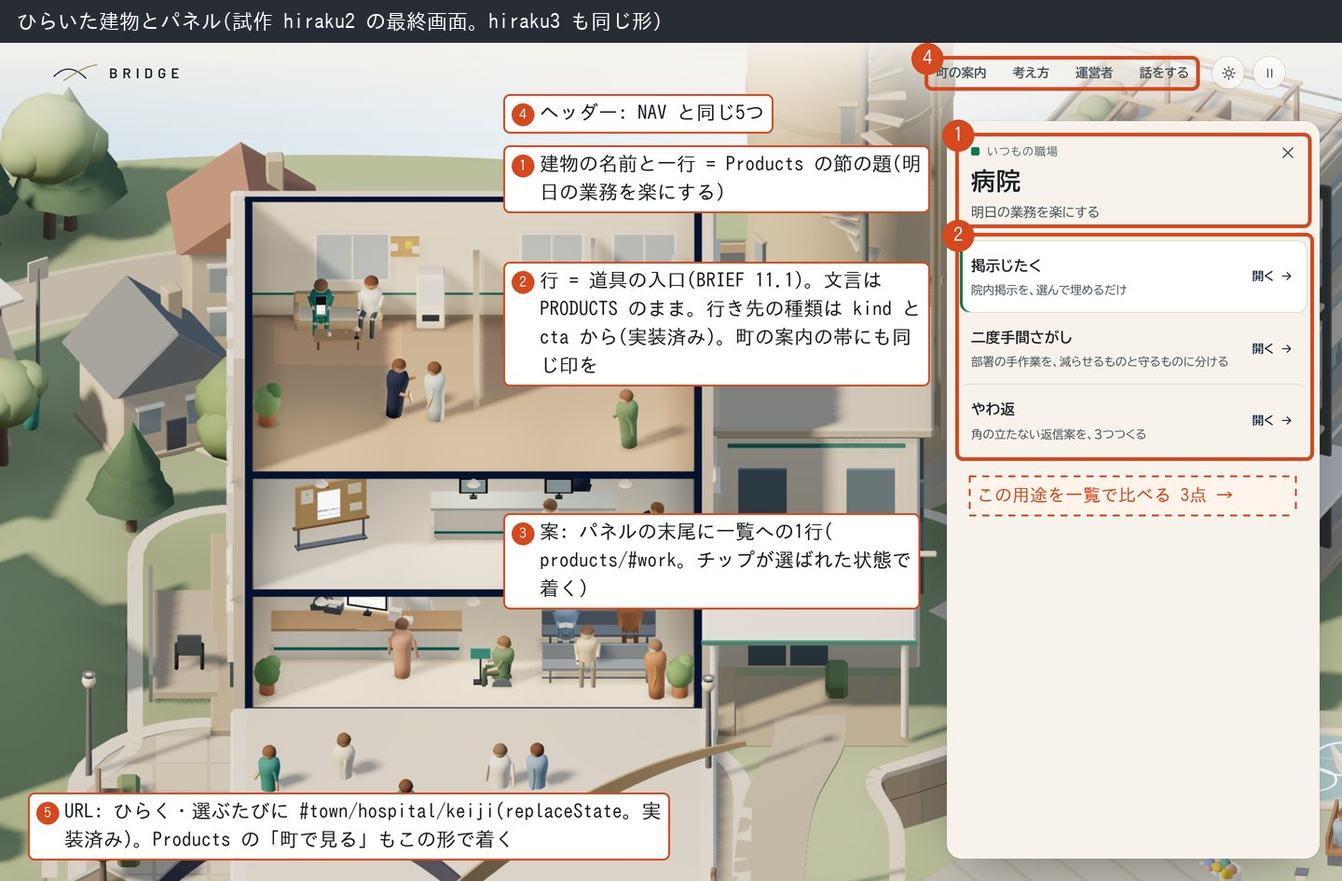
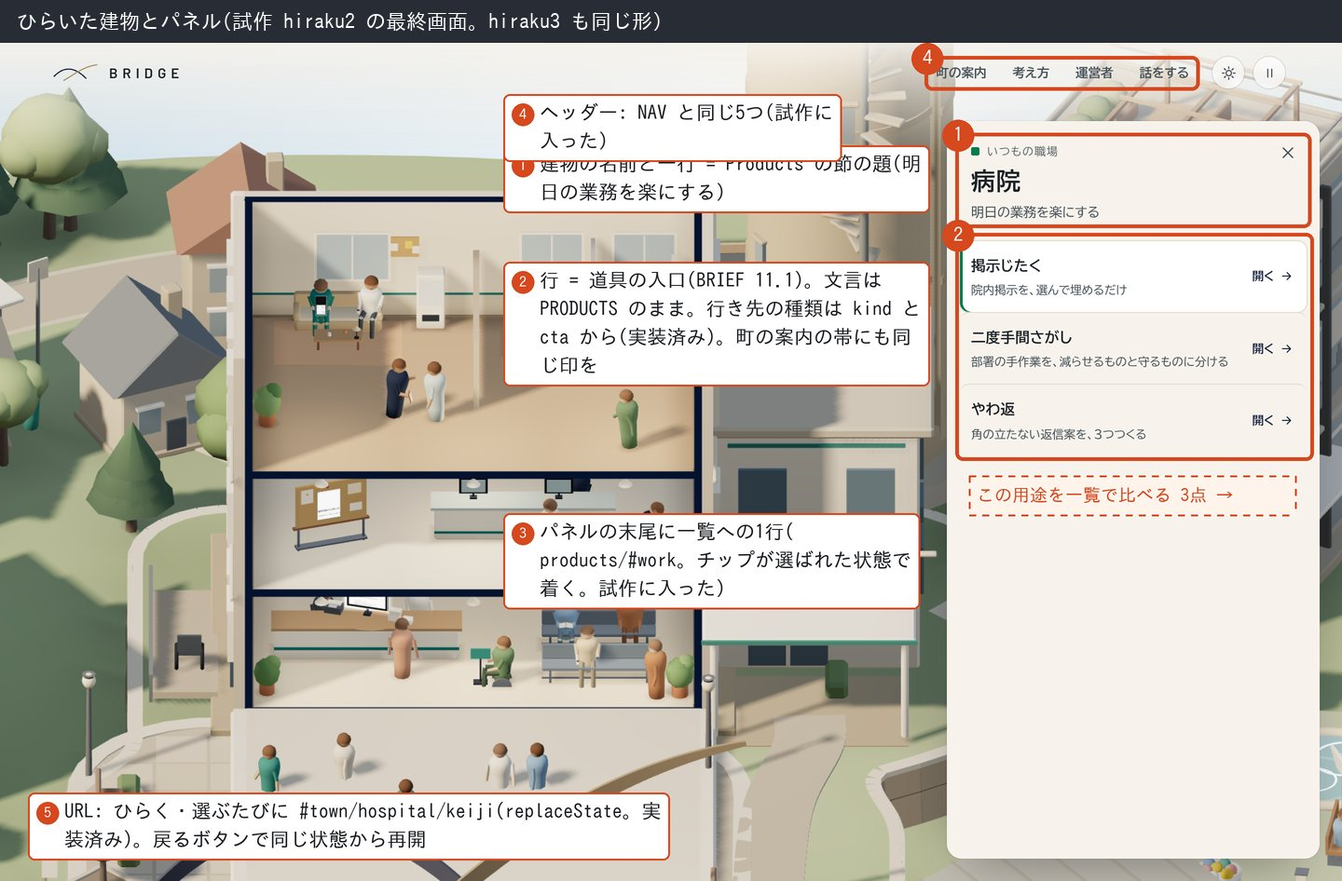
wip(top): 「ひらく町 v3」導線の提案を Designer の照合に合わせて改める(途中保存)
- 見送り: Products のヒーローと節の見出しの「町で見る」、下層フッターの「町を歩く」、一文が移るビュー遷移
- 写しの「1ページ1枚」は第22条 v1.4 でトップは適用外(改定は要らない)
- 社長の判断が要ることを9項目に整理

Claude-Session: https://claude.ai/code/session_016dwt5JPBcjN3XLYgLUEaNS

diff --git a/proto/top-ad/hiraku3/interiors.js b/proto/top-ad/hiraku3/interiors.js
@@ -46,6 +46,7 @@ const BASE = {
 };
 const mix = (a, b, t) => '#' + new THREE.Color(a).lerp(new THREE.Color(b), t).getHexString();
 const enc = x => x <= .0031308 ? 12.92 * x : 1.055 * Math.pow(x, 1 / 2.4) - .055;   // 光の量 → 画面の色の値(にじみの枠は値のまま足すため)
+const HI_NONE = new THREE.DataTexture(new Uint8Array([255, 255, 255, 255]), 1, 1); HI_NONE.needsUpdate = true;   // 元の大きさの写しを映していないとき
 function makePalette(p) {
   const outer = !!(p && p.wallIn);
   const P = Object.assign({}, BASE, outer ? {} : p || {});
@@ -410,8 +411,19 @@ export function buildInterior(kind, box, ctx = {}) {
   const scGeo = E.SC.geometry(true);
   // 写しは加工しない: 光・霧・トーンマッピング・頂点の色を受けず、ふだんも見つけたときも元の色のまま映す
   const scMat = new THREE.MeshBasicMaterial({ map: atlas, toneMapped: false, fog: false });
+  // 見つけている物(uHiSid 番)の画面だけは、アトラスの区画ではなく元の大きさの写し(uHiTex)を映す。同じ素材の中で選ぶので、描画の回数は増えない
+  const scU = { uHiTex: { value: HI_NONE }, uHiSid: { value: -1 } };
+  scMat.onBeforeCompile = sh => {
+    Object.assign(sh.uniforms, scU);
+    sh.vertexShader = sh.vertexShader.replace('#include <common>', '#include <common>\nattribute vec2 aUv0;\nattribute float aSid;\nvarying vec2 vUv0;\nvarying float vSid;')
+      .replace('#include <uv_vertex>', '#include <uv_vertex>\nvUv0 = aUv0;\nvSid = aSid;');
+    sh.fragmentShader = sh.fragmentShader.replace('#include <common>', '#include <common>\nuniform sampler2D uHiTex;\nuniform float uHiSid;\nvarying vec2 vUv0;\nvarying float vSid;')
+      .replace('#include <map_fragment>', '#ifdef USE_MAP\n\tdiffuseColor *= mix(texture2D(map, vMapUv), texture2D(uHiTex, vUv0), step(abs(vSid - uHiSid), .5));\n#endif');
+  };
+  scMat.customProgramCacheKey = () => 'hiraku-screen-hi';
   const scMesh = scGeo ? new THREE.Mesh(scGeo, scMat) : null; if (scMesh) group.add(scMesh);
-  // 画面の UV をアトラスの区画に合わせる(物の縦横比で、区画の中に収める)
+  // 画面の UV をアトラスの区画に合わせる(物の縦横比で、区画の中に収める)。元の板の上の位置(0〜1)と物の番号は、別に持つ(元の大きさの写しを映すとき用)
+  const U0 = scGeo ? new Float32Array(scGeo.attributes.position.count * 2) : null, SID = scGeo ? new Float32Array(scGeo.attributes.position.count) : null;
   E.stations.forEach((s, i) => {
     const col0 = i % cols, row = Math.floor(i / cols), a = s.sw / s.sh, m = slot * .03;
     const dw = a >= 1 ? slot - 2 * m : (slot - 2 * m) * a, dh = a >= 1 ? (slot - 2 * m) / a : slot - 2 * m;
@@ -420,10 +432,11 @@ export function buildInterior(kind, box, ctx = {}) {
     const U = scGeo.attributes.uv;
     for (let v = s.sc[0]; v < s.sc[1]; v++) {
       const uu = U.getX(v), vv = U.getY(v);
+      U0[v * 2] = uu; U0[v * 2 + 1] = vv; SID[v] = i;
       U.setXY(v, (x0 + uu * dw) / asz, 1 - (y0 + (1 - vv) * dh) / asz);
     }
   });
-  if (scGeo) scGeo.attributes.uv.needsUpdate = true;
+  if (scGeo) { scGeo.attributes.uv.needsUpdate = true; scGeo.setAttribute('aUv0', new THREE.BufferAttribute(U0, 2)); scGeo.setAttribute('aSid', new THREE.BufferAttribute(SID, 1)); }
   // 人
   const ppl = buildPeople(E, u);
   if (ppl) { group.add(ppl.body, ppl.head); if (ppl.limbs) group.add(ppl.limbs); }
@@ -527,7 +540,7 @@ export function buildInterior(kind, box, ctx = {}) {
     for (let j = 0; j < n; j++) { _w.subVectors(Q6[j], F.c); F.hx = Math.max(F.hx, Math.abs(_w.dot(F.x))); F.hy = Math.max(F.hy, Math.abs(_w.dot(F.y))); }
     const vw = (cam.right - cam.left) / cam.zoom, vh = (cam.top - cam.bottom) / cam.zoom;
     if (4 * F.hx * F.hy < .04 * vw * vh) return null;
-    F.G = G; return F;
+    F.G = G; F.s = s; return F;
   }
   // 手前(カメラの側へ .03 より前)にあって、画面とまわり(幅と高さの 1/4 ずつ広げた範囲)に重なって見えるか。pts は建物の中の座標、r は太さ
   F.covers = (pts, r) => {
@@ -537,11 +550,32 @@ export function buildInterior(kind, box, ctx = {}) {
     return al > .03 && x1 > -mx && x0 < mx && y1 > -my && y0 < my;
   };
 
+  /* ---- 見つけている間だけ、その物の画面を元の大きさの写し(products の thumbs 880px・shared/shots の大きい写し)に差し替える ----
+     読めてから差し替え(ちらつかない)、見つけ終われば戻してすぐ手放す(記憶域は見つけている間の1枚分だけ増える)。写しは縮めるだけ */
+  const hi = { id: null, tex: null };
+  function hiRes(s) {
+    const id = s && IMG[s.id] ? s.id : null;
+    if (id === hi.id) return;
+    hi.id = id; scU.uHiSid.value = -1; scU.uHiTex.value = HI_NONE;
+    if (hi.tex) { hi.tex.dispose(); hi.tex = null; }
+    if (!id) return;
+    const idx = s.index;
+    Promise.resolve().then(() => load(new URL(IMG[id][0], import.meta.url).href)).then(tex => {
+      const im = tex && tex.image; if (!im) return;
+      return Promise.resolve(im.decode ? im.decode().catch(() => {}) : null).then(() => {
+        if (disposed || hi.id !== id) return;
+        tex.colorSpace = THREE.SRGBColorSpace; tex.anisotropy = 4;
+        hi.tex = tex; scU.uHiTex.value = tex; scU.uHiSid.value = idx;
+      });
+    }).catch(() => { /* 読めないときは、アトラスの区画のまま */ });
+  }
+
   /* ---- 動き ---- */
   let lastMode = null;
   function update(dt, t, mode = 'day') {
     if (mode !== lastMode) { lastMode = mode; if (ppl) ppl.setMode(mode); }
     const f = focusView();
+    hiRes(f && f.s);
     if (ppl) ppl.update(t, f, dt);
     // 見つけている物の手前の小物も、同じように縮めて消す
     if (E.props.length) {
@@ -608,7 +642,7 @@ export function buildInterior(kind, box, ctx = {}) {
     dispose() {
       disposed = true;
       for (const m of [sMesh, scMesh, hlMesh]) if (m) m.geometry.dispose();
-      staticMat.dispose(); scMat.dispose(); hlMat.dispose(); atlas.dispose();
+      staticMat.dispose(); scMat.dispose(); hlMat.dispose(); atlas.dispose(); if (hi.tex) hi.tex.dispose();
       if (ppl) ppl.dispose();
       group.removeFromParent();
     }

diff --git a/proto/top-ad/hiraku3/ia/README.md b/proto/top-ad/hiraku3/ia/README.md
@@ -1,20 +1,19 @@
 # 町を入口にしたサイトの導線(情報設計の提案)
 
 2026-10-25・情報設計の担当(BRIEF §11.5)。`docs/ia.md` v3.3 を土台にした提案。本番のページ・`shared/`・`docs/` は変えていない。
-画面は 2026-10-25 にローカルで撮った本番と試作 `hiraku3`(撮影の時点。WebGL なし=止めた町)。試作は並行して直されているので、事実は読んだ時点のもの。ひらいた状態だけ `hiraku2` の最終画面。撮った全画面(PC 1440×900・スマホ 390×844、最初の画面とページ全体・末尾・フッター・メニュー)は現場の作業領域(scratchpad の `ad-hiraku3/ia/shots/`)に置き、リポジトリには入れていない。
+同日改(designer の照合を受けて): Products のヒーローと節の「町で見る」、下層フッターの「町を歩く」、一文が移るビュー遷移を見送った。写しの扱い(g)と、社長の判断が要ることを並べ直した。
+画面は 2026-10-25 にローカルで撮った本番と試作 `hiraku3`(撮影の時点。WebGL なし=止めた町)。ひらいた状態だけ `hiraku2` の最終画面。撮った全画面は現場の作業領域(scratchpad の `ad-hiraku3/ia/shots/`)に置き、リポジトリには入れていない。
 
-## 0. 実物から数えたこと
+## 0. 実物から数えたこと(提案の前に読んだ時点)
 
-- 道具は29点(`products/index.html` の PRODUCTS)。用途6つは 業務3・経営管理9・経営を学ぶ3・キャリア7・学習3・試す作品4。町の6棟(`data.js` の BUILDINGS)と1対1で、数も同じ。ほかにアトリエ3(about・community・note)と広場1(philosophy)
+- 道具は29点(`products/index.html` の PRODUCTS)。用途6つは 業務3・経営管理9・経営を学ぶ3・キャリア7・学習3・試す作品4。町の6棟(`data.js` の BUILDINGS)と1対1で、数も同じ。ほかにアトリエ3と広場1
 - 行き先の種類は 本体20・紹介ページ8・別のサイト1
 - NAV(`shared/bridge.js`)は7項目+CTA(話をする)。ヘッダーに常に出るのは Products・Philosophy・Journal・About と Contact。メニューは8項目と一言。フッターは4列13リンクと Privacy
 - 下層9ページ(Products・Projects・Philosophy・About・Community・Research・Journal・Stories・Services)は同じ骨組み: 固定ヘッダー → `.page-hero`(Home / ページ名)→ 本文 → 「次は、どこへ歩きますか」3分岐 → 共通フッター
 - Research は NAV にもフッターにもない。入口は Projects の中の3か所だけ
-- 町の試作は `bridge.js` を読まない。ヘッダー4項目(町の案内・考え方・運営者・話をする)、メニュー5項目、フッター1行。トップから Journal・Projects・Stories・Services・Research・Starter Kits・X へ歩けない。計測(GoatCounter)と利用ログも動かない
-- 町のヘッダーは最初の画面と一緒に流れて消える。下の節(約4,800px)ではナビに届かない
-- 町の `data.js` は PRODUCTS の写し(名前・一行・誰向け・利用条件・ボタン・行き先の種類)。パネルは kind と cta から行き先の種類を出す。町の案内(静的な帯)では、紹介ページへ行く8点のうち4点(面接官の手帖・HIM Quiz・StudyBoard・Daily English)に印がない
-- 町の状態は URL の `#town/建物/道具` に残り、読み込み時に復元される(`hiraku.js`。操作と画面の担当が実装済み)
+- 町の試作は `bridge.js` を読まない(計測の GoatCounter と利用ログが動かない)。読んだ時点のヘッダーは4項目(町の案内・考え方・運営者・話をする)、メニューは5項目、フッターは1行で、トップから Journal・Projects・Stories・Services・Research・Starter Kits・X へ歩けなかった。ヘッダーは最初の画面と一緒に流れて消え、下の節(約4,800px)ではナビに届かなかった
 - `scripts/check-site.mjs` 6項は、いまのトップの文言(「ぜんぶで29点あります」・「目的から探す」の行・クリニックタウン3D の版)を照合する。町に置き換えると、6項の書き直しが要る
+- その後、操作と画面の担当が、ヘッダー・メニュー・フッター・下の節の固定ヘッダー・閉じの明朝・「一覧で比べる」・アトリエの行き先・`#town/建物/道具` を試作に入れた(f の [x])
 
 ## 1. ページの役割と、町との対応(いま)
 
@@ -25,7 +24,7 @@
 | Philosophy | なぜ? | ヘッダー・8ページの末尾 | Projects / Stories / Contact | 広場(同じ一文) |
 | About | 誰が? | ヘッダー・Services の末尾 | Philosophy / Projects / Community | アトリエ(人)・広場(名前の由来) |
 | Community | どう関わる? | ヘッダーの Contact・5ページの末尾 | Philosophy / Stories / Home | アトリエ(話をする) |
-| Journal | 途中はどうなってる? | ヘッダー・Projects と Research の末尾 | Philosophy / Products / Community | なし(案: アトリエ) |
+| Journal | 途中はどうなってる? | ヘッダー・Projects と Research の末尾 | Philosophy / Products / Community | アトリエ(手記) |
 | Projects | いま何を? | メニュー・フッター・3ページの末尾 | Products / Research / Journal | なし |
 | Research | 確かめたのか? | Projects だけ | Projects / Journal / Philosophy | なし |
 | Stories | 何が変わる? | メニュー・フッター・4ページの末尾 | Philosophy / Products / Contact | なし |
@@ -35,7 +34,7 @@
 
 ![町を入口にしたサイトの地図](img/a-map.png)
 
-| 建物 | 用途 = Products の節 | 道具 | パネルの末尾(案) |
+| 建物 | 用途 = Products の節 | 道具 | パネルの末尾 |
 |---|---|---|---|
 | 病院 | 明日の業務を楽にする `#work` | 3 | この用途を一覧で比べる → `products/index.html#work` |
 | 展望台 | キャリア・経験を整理する `#career` | 7 | 同 `#career` |
@@ -43,13 +42,13 @@
 | 事務所 | 経営・管理の実務に使う `#manage` | 9 | 同 `#manage`(Services への1行は biz の判断) |
 | 図書館 | 学習を続ける `#study` | 3 | 同 `#study` |
 | 公園 | 気軽に試す・作品を楽しむ `#play` | 4 | 同 `#play` |
-| アトリエ | 運営者 | 運営者について → `about/index.html#founder`・話をする → `community/`・手記 → `journal/`(いまは note) | — |
-| 広場 | 考え方 | 考え方を読む → `philosophy/`・名前の由来 → `about/index.html#name`(id は案)・8棟の一覧(BRIEF §11.3) | — |
+| アトリエ | 運営者 | 運営者について → `about/index.html#founder`・話をする → `community/`・手記 → `journal/` | — |
+| 広場 | 考え方 | 考え方 → `philosophy/`・BRIDGEについて → `about/`(名前の由来に id を足したら `#name`)・8棟の一覧(BRIEF §11.3) | — |
 
 - **建物にしないページ:** Projects・Stories・Research・Services・Starter Kits。町は「道具・考え方・人」の3層で足りる。記録や依頼まで建物にすると、町が索引に戻る(BRIEF §9 の社長評価「カテゴリーの一覧に見える」)。共通のヘッダー・メニュー・フッターと、各ページの末尾から歩く
 - **探索する人:** 町 → 建物 → パネル(道具の入口)→ 実物 → 戻る(同じ建物・同じ道具)→ 前・次で隣の建物 → 広場 → Philosophy → 末尾の3分岐
-- **一覧から探す人:** ヘッダーの Products(PC)/メニューの1つめ(スマホ)/町の案内の「すべての道具を一覧で見る 29」→ Products → 検索・チップ → 実物。建物から来た人は `#用途` で、そのチップが選ばれた状態で着く(いまの動き)
-- **下層に直接来た人:** ロゴ・パンくずの Home・フッターの「町を歩く」→ 町。Products の「町で見る」→ その建物がひらいた町(`#town/hospital`)
+- **一覧から探す人:** ヘッダーの Products(PC)/メニューの Products(スマホ)/町の案内の「すべての道具を一覧で見る 29」→ Products → 検索・チップ → 実物。建物から来た人は `#用途` で、そのチップが選ばれた状態で着く(いまの動き)
+- **下層に直接来た人:** ロゴとパンくずの Home → 町。下層の側に町への道は足さない(Home への道は1本で足りる)
 
 ## b. トップ(町)と Products の線引き
 
@@ -62,10 +61,10 @@
 | 道具の情報 | パネルで1つずつ(写し1枚・名前・一行・誰向け・利用条件・行き先の種類・ボタン。BRIEF §11.1) | 全行に名前・一行・誰向け・利用条件・ボタン |
 | 探し方 | ふれる・前/次・広場の見晴らし | 検索窓・用途のチップ・ハッシュ |
 | 迷った人へ | 最初の画面の Compass | 初めてなら、この3つ |
-| 持たないもの | 検索・チップ・全件の比較 | 町の絵・建物の名前 |
+| 持たないもの | 検索・チップ・全件の比較 | 町の絵・建物の名前・町への道 |
 
-- **町の案内(下の節)は町の凡例。** JS・WebGL がなくても29点に届く保証(BRIEF 9.7)。名前と一行にとどめ、誰向け・利用条件・検索は足さない(足せば Products の写しになる)。並びは町の順のままでよい(語と数が同じなので迷わない)
-- **行き来は2本だけ。** 町の案内の帯とパネルの末尾に「この用途を一覧で比べる(n点)」→ `products/index.html#work` など。Products の節の見出しに「トップの町で見る(病院)」→ `index.html#town/hospital`
+- **町の案内(下の節)は町の凡例。** JS・WebGL がなくても29点に届く保証(BRIEF 9.7)。名前と一行と行き先の種類にとどめ、誰向け・利用条件・検索は足さない(足せば Products の写しになる)。並びは町の順のままでよい(語と数が同じなので迷わない)
+- **道は町から Products への1本。** 町の案内の帯とパネルの末尾の「この用途を一覧で比べる(n点)」→ `products/index.html#work` など。Products から町へは、ロゴとパンくずの Home で足りる。Products のヒーローは、リードの下の最初の一歩を「探す」に使っている(design-system §4 Page opening)。節や行に「町で見る」を足すと、同じ顔の繰り返しで一覧の密度が上がる
 - **データは PRODUCTS が唯一の情報源。** 町の TOOLS はいま写しなので、本番化までは check-site で照合し、本番化で PRODUCTS から作る(f)
 
 ## c. ヘッダー・メニュー・フッター
@@ -74,35 +73,34 @@
 |---|---|---|---|
 | ヘッダー | いつも同じ5つの行き先と現在地 | NAV と同じ5つ・同じ語・同じ順。町だけの昼夜・止める。下の節でも届く(最初の画面を過ぎたら固定) | 変えない |
 | メニュー | 全ページの地図(8つと一言) | NAV と同じ8つと一言。先頭に「町の案内(このページの下)」 | 変えない |
-| フッター | 最後にもう一度、地図 | 同じ4列を町の夜の色で(いまは1行) | 「活動」に Research、説明の下に「町を歩く」1行 |
+| フッター | 最後にもう一度、地図 | 同じ4列を町の夜の色で | 「活動」に Research |
 | 末尾の3分岐 | そのページの文脈で選ぶ | 閉じ(夜の町)の出口がこれに当たる | 変えない(Community の Home の札だけ言い換え) |
 
-- 見た目(書体・色・昼夜)は町のもの。行き先・順・語は共通で、`bridge.js` の NAV から描く(唯一の情報源のまま)
-- ヘッダーの語は NAV.en(Products・Philosophy・Journal・About・Contact)に。町で「考え方」と書いた入口が、次のページでは「PHILOSOPHY」になる。小さいが、移るたびに起きる違和感。日本語にするなら全ページ同時に(社長の判断)
-- 「町の案内」は同じページの中への道なので、ヘッダーから外し、メニューの先頭とスキップリンク(いまある)に置く
-- 下層のヘッダーに町への入口は足さない。ロゴとパンくずの Home が町へ行く。トップの都合で下層の部品を増やさない
+- 見た目(書体・色・昼夜)は町のもの。行き先・順・語は共通で、`bridge.js` の NAV から描く(唯一の情報源のまま)。本番では `bridge.js` を読み、部品もトークンも足さない
+- ヘッダーの語は NAV.en(Products・Philosophy・Journal・About・Contact)。町で「考え方」と書いた入口が、次のページでは「PHILOSOPHY」になる。小さいが、移るたびに起きる違和感
+- 「町の案内」は同じページの中への道なので、ヘッダーから外し、メニューの先頭とスキップリンクに置く
+- 下層のヘッダーとフッターに町への道は足さない。ロゴとパンくずの Home が町へ行く。フッターに足すと Home への2本目になり、名前がいまのトップの絵に結びつく(トップを作り直すたびに全ページのフッターの語が変わる)
 
 ## d. 町から通常のページへの接点
 
-見た目は寄せない。言葉・行き先・線(ロゴ)の3つでつなぐ。町の絵は町の外へ持ち出さない。
+見た目は寄せない。言葉・行き先・線(ロゴ)でつなぐ。町の絵は町の外へ持ち出さない。
 
 | 接点 | どこ | なぜ違和感がないか |
 |---|---|---|
 | 1 パネルが前室 | 町のパネル | 町 → 生成りの紙のパネル → 紙のページと、少しずつ通常のページに近づく。文言は PRODUCTS と各ページの語のまま |
-| 2 同じ一文 | 広場・町の閉じ → Philosophy の冒頭 | 「正解を与えるのではなく、選択肢を増やす」が両端にある。町の側を明朝にそろえれば(第23条 v1.5)、書体ごと同じ一文で迎えられる |
+| 2 同じ一文 | 広場・町の閉じ → Philosophy の冒頭 | 「正解を与えるのではなく、選択肢を増やす」が両端にある。閉じの一文は明朝(第23条 v1.5)なので、書体ごと同じ一文で迎えられる |
 | 3 名前の由来 | 広場 → About の名前の由来 | 広場の二本の弧 = ロゴ = About の「交差」の映像。同じ形を、町では立体、About では線で見る |
 | 4 人 | アトリエ → About `#founder` | アトリエの机の一人から、本人のポートレートへ。比喩から本人に移る |
-| 5 同じ用途の語 | 建物の一行 ↔ Products の節の題 | 「明日の業務を楽にする」が両方の見出し。着くとチップが選ばれている |
-| 6 戻ると同じ状態 | 町の URL `#town/hospital/keiji` | 戻るボタンで同じ建物・同じ道具に戻る。「町で見る」でもその建物がひらく(第27条: 選択に世界が応答する) |
+| 5 同じ用途の語 | 建物の一行 → Products の節の題 | 「明日の業務を楽にする」が両方の見出し。着くとチップが選ばれている |
+| 6 戻ると同じ状態 | 町の URL `#town/hospital/keiji` | 戻るボタンで同じ建物・同じ道具に戻る(第27条: 選択に世界が応答する) |
 | 7 共通のフッター | 町の閉じの下と全ページ | 町の最後が、どのページにもある同じ地図で終わる。その先は通常のページ |
-| 8 「町を歩く」1行 | 下層のフッター | 検索で下層に直接来た人が町を知る入口。絵ではなく文字 |
-| 9 任意: 一文が移る | 広場のパネル → Philosophy | 文書をまたぐビュー遷移で、同じ一文が冒頭へ移る。対応しないブラウザは普通に移る。designer の判断 |
 
 やらないこと:
 - 下層の書体・色・ヘッダーを町に寄せない(第30条の2 と同じ考え方。つなぐのは体験と言葉)
-- Philosophy に広場の絵、About にアトリエの絵を置かない。町の色は第22条の外で、認めるならトップに限る但し書きになる。About には本人のポートレートがある
-- フッターに小さな町の地図(絵)を置かない。文字の地図と二重になり、全ページに町の色が出る。代わりに「町を歩く」1行
-- Products の行ごとの「町で見る」は置かない。29本の同じ顔の分岐(第27条)。行の主役は実物を開くこと
+- Philosophy に広場の絵、About にアトリエの絵を置かない。About には本人のポートレートがある
+- Products に町への道を足さない。ヒーローはリードの下の一歩が「探す」の1つ(Page opening)、節と行は同じ顔の繰り返しになる(第27条)
+- 下層のフッターに「町を歩く」や小さな町の地図を置かない。Home への2本目になり、語や絵がいまのトップに結びつく
+- 一文が移るビュー遷移はしない。夜の帯から明るい地へ移るので、地の色と文字の大きさが飛ぶ。同じ一文があるので足りる
 - Stories を病院のパネルに入れない。パネルは道具(使う)の入口で、読むものを混ぜると役割がぼける
 
 ## e. トップ以外のページの改善案
@@ -113,24 +111,23 @@
 
 ![Products の注釈](img/e1-products.jpg)
 
-1. ヒーローの説明の横に「町を歩いて探す(トップ)」1行。一覧から来た人に、もう一つの探し方を見せる
-2. 用途のチップとハッシュ(`#work` など)はそのまま。町からの着地点
-3. 「初めてなら、この3つ」は残す。町のトップには代表作の節がない。上のコメント(トップの主ボタン・副導線と同じ選定)は前提が変わるので書き直す
-4. 節の見出しに「トップの町で見る(病院)」→ `../index.html#town/hospital`(6本)
-5. 行には足さない
+1. 用途のチップとハッシュ(`#work` など)はそのまま。町の「この用途を一覧で比べる」の着地点
+2. ヒーローに町への道は足さない(リードの下の最初の一歩は「探す」の1つ)
+3. 町へ戻るのはロゴとパンくずの Home で足りる
+4. 「初めてなら、この3つ」は残す。町のトップには代表作の節がない。上のコメント(トップの主ボタン・副導線と同じ選定)は前提が変わるので書き直す
+5. 節の見出しにも行にも「町で見る」は足さない
 
 ### Philosophy
 
 ![Philosophy と町の閉じの注釈](img/e2-philosophy.jpg)
 
-- 変えない(①②③)。冒頭の一文が接点。町の閉じと広場のパネルの一文を明朝にそろえる(④。トップの側)、出口の語を NAV にそろえる(⑤)
-- 任意: 冒頭の一文に `view-transition-name` を付けて、接点9 を動かす(designer)
+- 変えない(①②③)。冒頭の一文が接点。町の閉じの一文は明朝(④)、出口の語は NAV にそろった(⑤)。どちらも試作に入った
 
 ### About
 
 ![About の注釈](img/e3-about.jpg)
 
-1. 名前の由来の節に `id="name"`(広場からの着地点)
+1. 名前の由来の節に `id="name"`(広場の「BRIDGEについて」の着地点を、名前の由来にできる)
 2. `#founder`(いまある)はアトリエの「運営者について」の着地点
 3. アトリエの絵は置かない
 
@@ -138,8 +135,8 @@
 
 ![ヘッダー・メニュー・フッターの注釈](img/e4-common.jpg)
 
-- 下層のヘッダーとメニューは変えない(①④)。町のヘッダーとメニューを NAV にそろえる(②⑤。トップの側)。昼夜・止めるは残す(③)
-- フッター: 「活動」に Research(⑥)、説明の下に「町を歩く」1行(⑦)、トップも同じ中身(⑧)
+- 下層のヘッダーとメニューは変えない(①④)。町のヘッダーとメニューは NAV にそろった(②⑤。試作に入った)。昼夜・止めるは残す(③)
+- フッター: 「活動」に Research(⑥)。トップも同じ中身(⑦。試作に入った)
 - `bridge.js`: NAV・CTA・フッターの列を `window.BRIDGE` から読めるようにする。トップは同じデータを町の CSS で描く
 
 ### Community・Journal ほか
@@ -147,10 +144,10 @@
 ![Community と Journal の注釈](img/e5-pages.jpg)
 
 - Community: 末尾の Home の札「最初に戻る / 変化を、自分の力に。」を、町に戻る一言に(①。文言は editor)
-- Journal: 変えない。アトリエの3つめの行き先にする(②)。note へはここから
+- Journal: 変えない。アトリエの3つめ「手記」の行き先(②。試作に入った)。note へはここから
 - Projects・Research: 建物にしない。Research をフッターへ。メニューに入れるかは社長
 - Stories・Services・Starter Kits: 建物にしない。Services は事務所のパネルに1行置くかを biz と
-- Compass・紹介 LP・道具の本体: 変えない(第30条の2 第5号)。町から来た人は戻るボタンで町の同じ状態へ(トップの側)
+- Compass・紹介 LP・道具の本体: 変えない(第30条の2 第5号)。町から来た人は戻るボタンで町の同じ状態へ
 
 ## f. トップ(町)の側で実装すること
 
@@ -158,61 +155,58 @@
 
 ![ひらいたパネルの注釈](img/f2-panel.jpg)
 
-操作と画面の担当へ(BRIEF §11.8: `hiraku.js`・`live.js`・`index.html`・`data.js`)。建物の中の札の語は建物の中の担当。
+操作と画面の担当へ(BRIEF §11.8)。[x] は試作に入ったもの(2026-10-25 に確かめた)。
 
 ヘッダー・メニュー・フッター
-- [ ] PC のヘッダー: Products・Philosophy・Journal・About・Contact(NAV.en。NAV の primary と CTA)と昼夜・止める。「町の案内」は外す
-- [ ] 下の節でもヘッダーに届く(最初の画面を過ぎたら固定にするのが一案。ひらいている間はいまのまま)
-- [ ] スマホのメニュー: 先頭に「町の案内(このページの下)」、続けて NAV の8つ(英語名・日本語名・一言)
-- [ ] フッター: `bridge.js` のフッターと同じ4列と Privacy を町の夜の色で。「理学療法士の橋本渉が、ひとりで運営しています」は残す。「Prototype・未公開」は本番で外す
+- [x] PC のヘッダー: Products・Philosophy・Journal・About・Contact と昼夜・止める。「町の案内」は外した
+- [x] 下の節でもヘッダーに届く(最初の画面を過ぎたら固定)
+- [x] スマホのメニュー: 先頭に「町の案内(このページの下)」、続けて NAV の8つ
+- [x] フッター: `bridge.js` のフッターと同じ4列と Privacy を町の夜の色で。「Prototype・未公開」は本番で外す
 - [ ] 本番では `shared/bridge.js` を読む(計測・利用ログ・NAV)。`.site-nav`・`.site-footer` は置かず、`window.BRIDGE` のデータから町の CSS で描く(`bridge.js` に小さな変更が要る)
+- [ ] `bridge.js` を読むと、BudouX が町の h1・h2・h3・p にも効く。広場のパネルの手で組んだ `span`(`.pz-mark p`)、h1 の `.br`、閉じの `<br><em>` と重ならないかを確かめる。重なるなら、その要素に先に `data-bx="1"` を付ければ BudouX は飛ばす(`bridge.js` の applyBudoux の決まり。変更は要らない)
 
-ハッシュと状態(形は実装済みの `#town/建物/道具` に合わせた)
-- [x] `#town/hospital/keiji`: ひらく・選ぶ・閉じるたびに `history.replaceState`、読み込み時に復元(実装済み)
-- [x] `#town/hospital` などで直接来たとき(Products の「町で見る」)もその建物がひらく(WebGL なしで確かめた: 病院・事務所の RehaBoard・広場。立体ありは未確認)。同じページの中で `#town/` のリンクを使うなら hashchange も
-- [ ] 帯の id `#g-hospital` など(JS なしの飛び先)と `#guide` はいまのまま
-- [ ] 建物と用途の対応: hospital=work・observatory=career・clinic=learn・office=manage・library=study・park=play
+ハッシュと状態
+- [x] `#town/建物/道具`: ひらく・選ぶ・閉じるたびに `history.replaceState`、読み込み時に復元。直接 `#town/hospital` などで来てもその建物がひらく(WebGL なしで確かめた。立体ありは未確認)
+- [x] 帯の id `#g-hospital` など(JS なしの飛び先)と `#guide` はいまのまま
 
-パネル
-- [ ] 6棟の末尾に「この用途を一覧で比べる(n点)→」`products/index.html#work` など。n はその建物の道具の数
-- [ ] アトリエ: 運営者について → `about/index.html#founder`、話をする → `community/`、3つめを note から手記 → `journal/` に(一行は NAV の journal の一言。物の絵「書いていること」はそのまま使える)
-- [ ] 広場(BRIEF §11.3): 考え方 → `philosophy/` と BRIDGEについて → `about/` は実装済み。About に `id="name"` を足したら `about/index.html#name` に
-- [x] パネルの行き先の種類は kind と cta から(実装済み)。町の案内の帯にも同じ印を出す(4点に印がない)
+パネルと下の節
+- [x] 6棟のパネルと町の案内の帯の末尾に「この用途を一覧で比べる(n点)」
+- [x] アトリエ: 運営者について → `about/index.html#founder`、話をする、手記 → `journal/`
+- [x] 行き先の種類の印: パネルも帯も、紹介ページ8点と別のサイト1点に出ている(パネルは kind と cta から)
+- [x] 閉じ: 一文を明朝に。出口の語は 考え方 / BRIDGEについて / 話をする / note。「見るだけで帰っても、それで十分です。」は残す(第29条)
+- [ ] 広場の「BRIDGEについて」は、About に `id="name"` を足したら `about/index.html#name` に
 - [ ] 事務所に「現場に合わせて作る相談 → `services/`」を足すかは biz の判断を待つ
+- [ ] 町の案内に誰向け・利用条件・検索は足さない(これからも)
 
-下の節
-- [ ] 町の案内の各帯の末尾に、パネルと同じ「この用途を一覧で比べる(n点)」
-- [ ] 町の案内に誰向け・利用条件・検索は足さない
-- [ ] 運営者の帯の3つをアトリエと同じに(about#founder・community・journal)
-- [ ] 閉じ: 一文を明朝(Shippori Mincho B1)に。「選択肢を増やす」の砂はいまのまま。出口の語を NAV にそろえる(考え方 / BRIDGEについて / 話をする / note)。「見るだけで帰っても、それで十分です。」は残す(第29条)
-
-データと検査
+データと検査(本番化のとき)
 - [ ] check-site 6項を町用に: TOOLS と PRODUCTS の名前・一行・行き先、建物ごとの数 = 用途ごとの数、「すべての道具を一覧で見る」の数(29)
-- [ ] 本番化で TOOLS を PRODUCTS から作る(PRODUCTS を `products/index.html` の外の共有データへ。Products の変更を伴うので別の便)
+- [ ] TOOLS を PRODUCTS から作る(PRODUCTS を `products/index.html` の外の共有データへ。Products の変更を伴うので別の便)
 - [ ] title・description・OGP はいまのトップのものを引き継ぎ、noindex を外す(第32条)
-
-スマホ
-- [ ] 最初の画面に一覧への文字リンクは足さない(メニューの1つめと、町の案内の「29」で足りる)。社長が実画面で判断
 
 ## g. docs/ia.md の改定の要点(v3.4 案)
 
 - §1 サイトマップ: Home の行を町に(8棟 = 用途6・アトリエ・広場。ふれると中がひらき、道具の入口から実物へ。下に町の案内・運営者・閉じ)
-- §2 原則1: 「Home = 町で出会う、Products = 一覧で選ぶ」に。v3.1 の「目的から探す」の帯は町の案内に置き換わる
+- §2 原則1: 「Home = 町で出会う、Products = 一覧で選ぶ」に。v3.1 の「目的から探す」の帯は町の案内に置き換わる。町から Products へは「この用途を一覧で比べる」、Products から町へはロゴとパンくずの Home
 - §2 原則2: Home の問い「どこから歩く?」を足す
 - §3: トップの例外(v2.8・v2.9)を書き換える。見た目は町、行き先・順・語は NAV。下の節でもヘッダーに届く。メニューの先頭に「町の案内」。フッターは全ページ同じ中身で、「活動」に Research
-- §4 表: Home の行を町に。Products に「町で見る(節ごと)」。Philosophy・About・Community・Journal に広場・アトリエからの入口
+- §4 表: Home の行を町に。Philosophy・About・Community・Journal に広場・アトリエからの入口
 - §5 ワイヤー: Home = ヘッダー / 町 / 町の案内 / 運営者 / 閉じ / フッター
-- §7 遷移図: 町 ↔ Products(`#用途` ↔ `#town/建物`)、広場 → Philosophy・About#name、アトリエ → About#founder・Community・Journal
+- §7 遷移図: 町 → Products(`#用途`)、広場 → Philosophy・About、アトリエ → About#founder・Community・Journal。Products と下層から町へはロゴとパンくずの Home
 - §10 拡張性: 道具を足すときは PRODUCTS に1行(町のパネルと町の案内には use から出る)。建物の中の物(`interiors.js`)は任意で後から。用途を増やすには建物が要り、社長の判断。トップの照合(6項)は町用に
-- §11 写し: 建物の中に実画面が複数ある。「写しは1ページに原則1枚」(第22条)との関係を決める(BRIEF §11 の課題のまま)
+- §11 写し: 改定は要らない。写しの「1ページ1枚」は、憲法第22条 v1.4(ガラスの但し書きの末尾)がトップとプロダクト一覧には適用しないと定めている。§11 には、町の建物の中の実画面もこの扱いの下にあること、写しを加工しない・色を枠の外へ持ち出さないは町でも守ることを書き足す
 - 変更履歴に v3.4
 
 ## 社長の判断が要ること
 
-1. 町のトップの見た目と憲法: トップはブランドの面(design-system §0)。町の色と書体(BIZ UDPGothic・Barlow)は第22条・第23条の外。ガラスの但し書きと同じ形で、トップに限る但し書きを足すか(第33条)。この提案は、町の色を下層へ持ち出さない前提で組んだ
-2. 写しの「1ページ1枚」と、建物の中の複数の画面(BRIEF §11 の課題)
-3. ヘッダーの語: NAV.en(下層と同じ。推奨)か、日本語にして全ページを同時に変えるか
-4. Research をフッター(推奨)とメニューに入れるか
-5. アトリエの3つめを note から手記(Journal)に(推奨)
-6. 事務所のパネルに Services への1行(biz と)
-7. スマホの最初の画面に一覧への文字リンクを置かない(推奨)
+見た目と憲法(designer の照合と共通)
+1. 町の色と書体: トップはブランドの面(design-system §0)。町の色と書体(BIZ UDPGothic・Barlow)は第22条・第23条の外。ガラスの但し書きと同じ形で、トップに限る但し書きを足すか(第33条)。この提案は、町の色を下層へ持ち出さない前提で組んだ
+2. 昼・夕・夜とライト/ダークの関係: 第22条は両テーマを等価に設計すると定める。いまは別々で、町は昼・夕・夜のボタン、下層はライト/ダークのボタン。トップで時刻をテーマとして扱うか、下層へ移るときにどうつなぐか
+3. 町の中のロゴの数: いまは広場の弧・展望台の風見・アトリエの札・アトリエの中の「運営者について」の絵の4か所。designer の推奨は広場の弧だけ(第24条の2「ロゴは静かに存在させる」)
+4. 写しの「1ページ1枚」: 改定は要らない(第22条 v1.4 でトップは適用外)。決めるのは、おすすめ3点を前提にした v1.4 の理由を、29点を見せる町にも当てるかの確認だけ
+
+導線
+5. ヘッダーの語: NAV.en(下層と同じ。推奨。試作もこれ)か、日本語にして全ページを同時に変えるか
+6. Research をフッター(推奨)とメニューに入れるか
+7. アトリエの3つめを note から手記(Journal)に(推奨。試作もこれ)
+8. 事務所のパネルに Services への1行(biz と)
+9. スマホの最初の画面に一覧への文字リンクを置かない(推奨。メニューの Products と町の案内の「29」で足りる)
